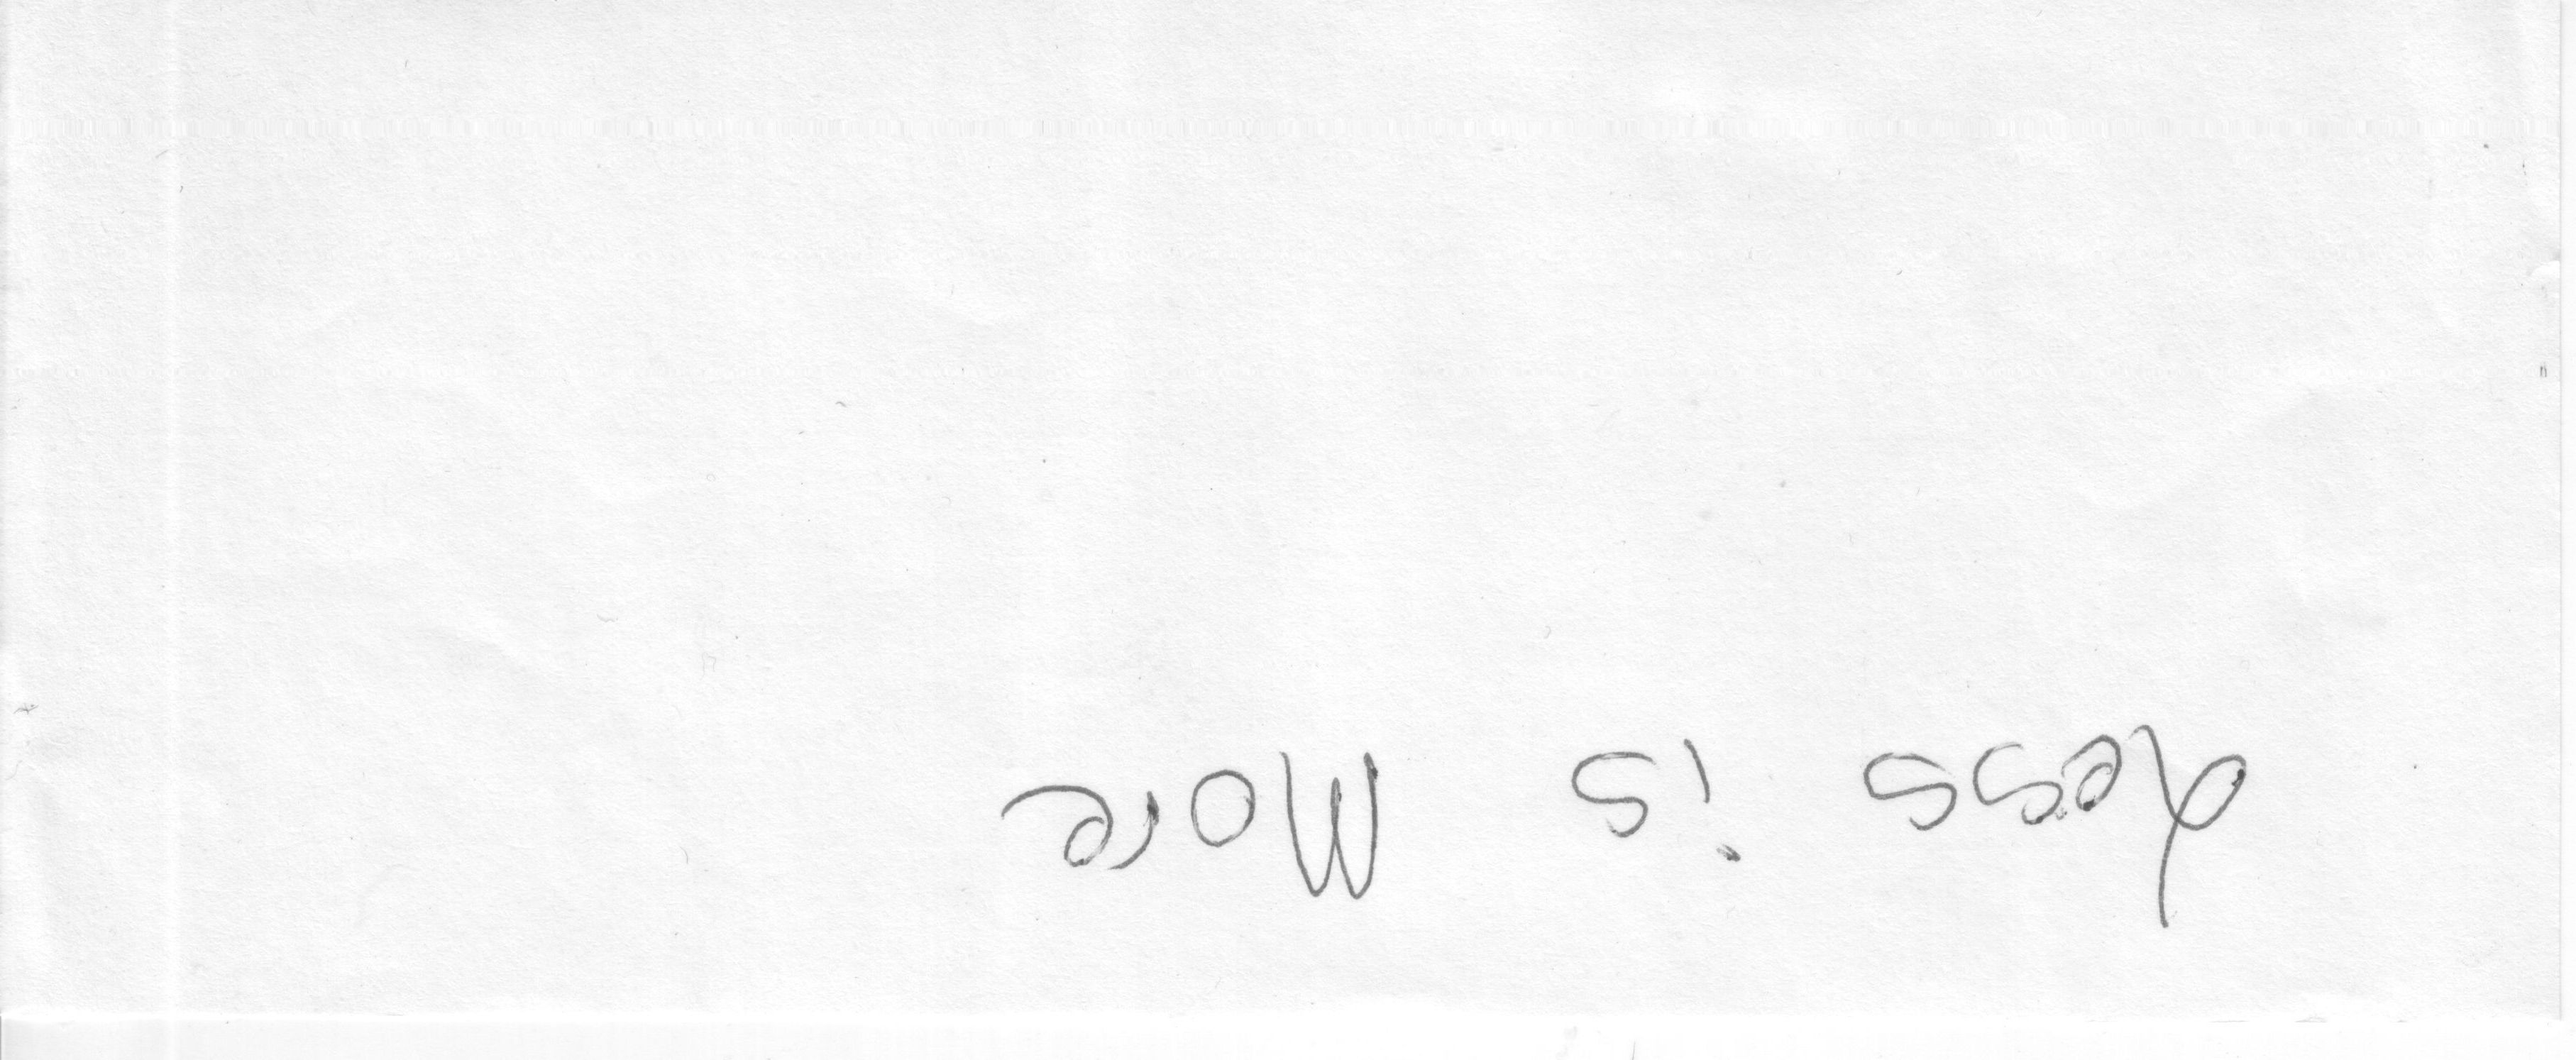
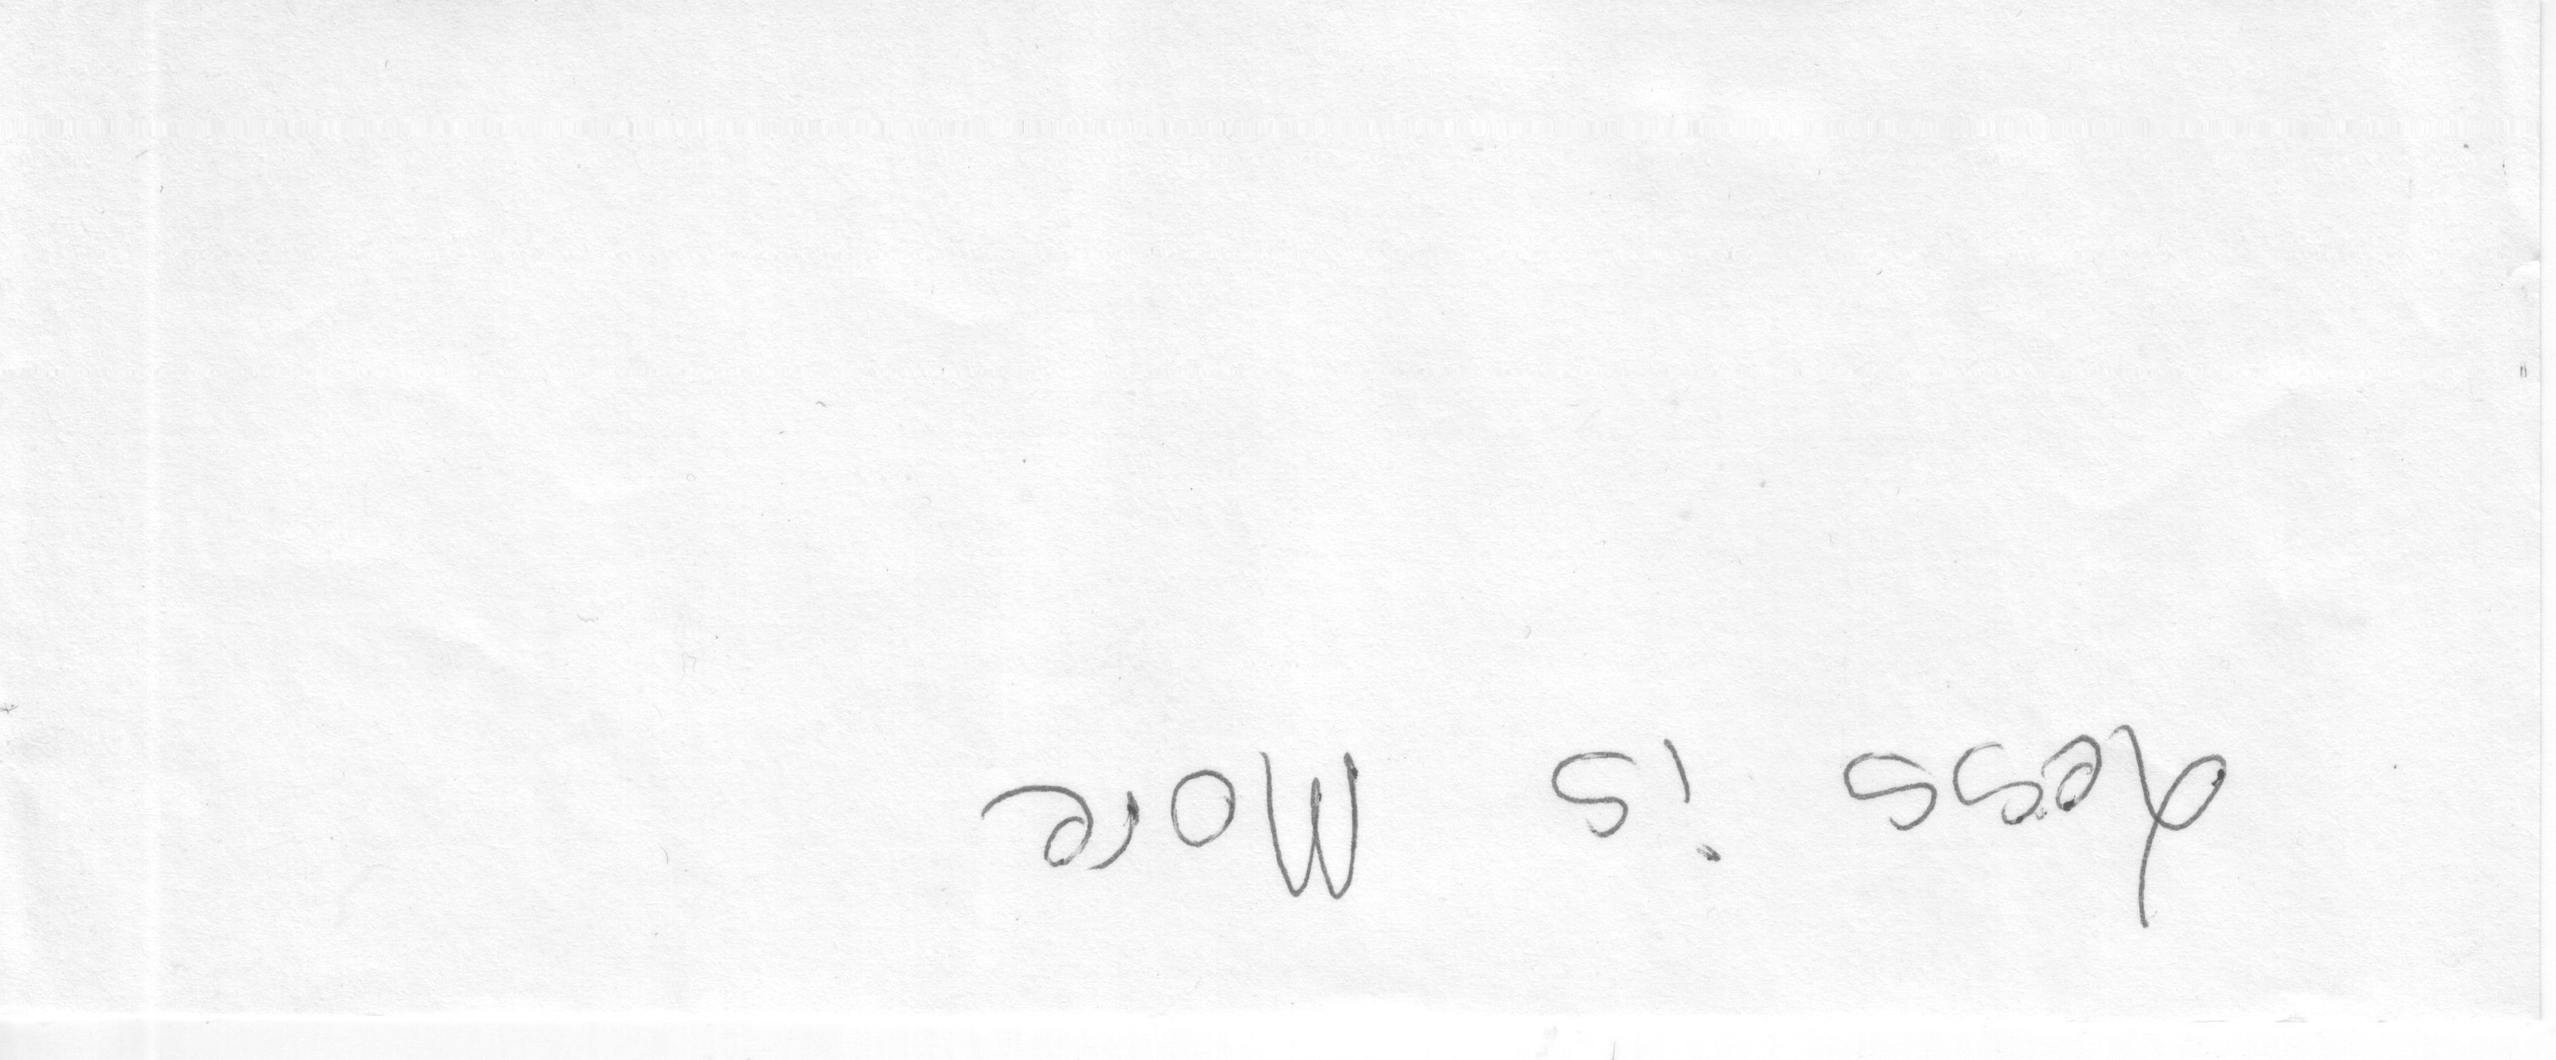
Levelling 86% of levellable wisdom.
Run Hough transform and lower the threshold until 50 lines
are found, then take the average of the angles of those lines.

Threshold lowering could be faster (binary search) but it doesn't seem
to matter.

Next: what's different about the remaining 15%?

diff --git a/src/Wisdom.cpp b/src/Wisdom.cpp
@@ -7,6 +7,7 @@
 
 #define INK_THRESHOLD 100
 
+// Constructor. Provide path to wisdom image.
 Wisdom::Wisdom(std::string thefilepath)
 {
     filepath = thefilepath;
@@ -16,11 +17,13 @@ Wisdom::~Wisdom()
 {
 }
 
+// Return the path to the wisdom image.
 std::string Wisdom::getFilepath()
 {
     return filepath;
 }
 
+// Load and return the loaded wisdom image (greyscale).
 cv::Mat * Wisdom::getOriginal()
 {
     // Cache the image once loaded.
@@ -32,6 +35,7 @@ cv::Mat * Wisdom::getOriginal()
     return &original;
 }
 
+// Return a 10% sized, thresholded (white on black) version of the wisdom image.
 cv::Mat * Wisdom::getPrepared()
 {
     // Cache the image once generated.
@@ -49,13 +53,66 @@ cv::Mat * Wisdom::getPrepared()
 
 }
 
-
 // Return true if this wisdom is blank (i.e. ink is below threshold)
 bool Wisdom::isBlank()
 {
     //TODO: cache result maybe
     double ink = cv::countNonZero(*getPrepared());
     return (ink < INK_THRESHOLD);
+}
+
+int Wisdom::angle()
+{
+    int angle = 0;
+    int MUL = 5;
+    int RHO = 1; // resolution in pixels
+    float THETA = 3.142 / 180 ; //resolution in radians
+    int THRESHOLD = 150;
+    int MIN_LINES = 45;
+
+    houghLines = getPrepared()->clone();
+    
+    std::vector<cv::Vec2f> lines;
+    // keep reducing the threshold and running Hough until we get at least
+    // 50 lines back, then calculate the most common angle by
+    // splitting up angles into buckets and taking the largest bucket
+    for(int threshold = THRESHOLD; threshold >= 0; threshold--){
+        cv::HoughLines(houghLines, lines, RHO, THETA, threshold);
+        int nLines = lines.size();
+        if(nLines > MIN_LINES){
+            // initialise buckets
+            const int BUCKETSIZE_D=5;
+            const float BUCKETSIZE_R = BUCKETSIZE_D* 3.142/180;
+            const int N_BUCKETS = floor(180 / BUCKETSIZE_D);
+            int bucket[N_BUCKETS];
+
+            for(int i=0; i<N_BUCKETS; i++){
+                bucket[i] = 0;
+            }
+
+            // count lines in each bucket
+            for (int i=0; i< nLines; i++){
+                float angle = lines[i][1];
+                int bucket_index = floor(angle / BUCKETSIZE_R);
+                bucket[(bucket_index % N_BUCKETS)]++; //take care of wrapping around 360 degrees
+            }
+
+            // get the best bucket
+            int best_bucket = 0;
+            for(int i=0; i<N_BUCKETS; i++){
+                if(bucket[i] > bucket[best_bucket]){
+                    best_bucket = i;
+                }
+            }
+
+            // calculate angle from the best bucket
+            float theta = (best_bucket) * BUCKETSIZE_R;
+            angle = (int)(90 - (theta * 180/3.142));
+
+            break;
+        }
+    }
+    return angle;
 }
 
 cv::Mat * Wisdom::getHoughLines()
@@ -67,8 +124,6 @@ cv::Mat * Wisdom::getHoughLines()
         int RHO = 1; // resolution in pixels
         float THETA = 3.142 / 180 ; //resolution in radians
         int THRESHOLD = 150;
-        int MIN_LINE_LENGTH = 20; //discard shorter lines
-        int MAX_LINE_GAP = 80; // point at which line is considered two lines
 
         houghLines = getPrepared()->clone();
         
@@ -108,7 +163,8 @@ cv::Mat * Wisdom::getHoughLines()
                 // calculate angle from the best bucket
                 float theta = (best_bucket) * BUCKETSIZE_R;
                 float rho = 100; //dont' care, just want the angle
-                std::cout<<"theta (deg): "<<theta * 180/3.142<<"\n";
+                int angle = (int)(90 - (theta * 180/3.142));
+                std::cout<<"angle: "<<angle<<"\n";
 
                 double a = cos(theta), b = sin(theta);
                 double x0 = a*rho, y0 = b*rho;

diff --git a/test/WisdomTest.cpp b/test/WisdomTest.cpp
@@ -10,6 +10,7 @@ struct TestData{
     std::string imagePath;
     bool isBlank;
     int textAngle;
+    int lines;
 };
 
 class WisdomTest : public Test::Suite { 
@@ -17,12 +18,14 @@ class WisdomTest : public Test::Suite {
         WisdomTest(){
             loadTestData();
             TEST_ADD (WisdomTest::detect_blanks); 
+            TEST_ADD (WisdomTest::levelling); 
         } 
     
     private:
         std::vector<TestData> m_testData;
         void loadTestData();
         void detect_blanks();
+        void levelling();
 }; 
 
 void WisdomTest::loadTestData()
@@ -39,11 +42,12 @@ void WisdomTest::loadTestData()
             boost::trim(item);
             elements.push_back(item);
         }
-        assert(elements.size() == 3);
+        assert(elements.size() == 4);
 
         TestData data = {elements[0],
                          elements[1] == "true",
-                         std::stoi(elements[2])};
+                         std::stoi(elements[2]),
+                         std::stoi(elements[3])};
         m_testData.push_back(data);
     }
 }
@@ -64,6 +68,45 @@ void WisdomTest::detect_blanks()
     std::ostringstream result;
     result << correct << "/" << m_testData.size() << " blanks detected correctly";
     TEST_ASSERT_MSG(correct == m_testData.size(), result.str().c_str());
+}
+
+void WisdomTest::levelling()
+{
+    int correct = 0;
+    int qualifying = 0;
+    for(TestData data : m_testData)
+    {
+        if(!data.isBlank && data.lines>0)
+        {
+            qualifying++;
+            Wisdom wisdom(data.imagePath);
+            int angle = wisdom.angle() % 180;
+            int expected = data.textAngle % 180;
+            std::cout<<data.imagePath;
+            std::cout<<"\texpected="<<expected<<" \tdetected="<< angle;
+            int difference = abs(angle - expected) % 180;
+            if(difference > 90)
+            {
+                difference = 180 - difference;
+            }
+            std::cout<<"\tdifference=" << difference;
+            if(difference <= 5)
+            {
+                std::cout<<"\n";
+                correct++;
+            }
+            else
+            {
+                std::cout<<"\tFAIL\n";
+            }
+            //TEST_ASSERT_MSG(difference < 5, data.imagePath.c_str());
+        }
+    }
+    std::ostringstream result;
+    result << correct << "/" << qualifying << " angles detected correctly (" << (float)correct* 100 /qualifying << "%)\n" ;
+    TEST_ASSERT_MSG(correct == qualifying, result.str().c_str());
+
+
 }
 
 int main ( ) 

diff --git a/src/Wisdom.h b/src/Wisdom.h
@@ -28,6 +28,9 @@ class Wisdom
         // Return true if this wisdom does not contain enough ink for analysis.
         bool isBlank();
 
+        // Return the angle of the text (0 = already level)
+        int angle();
+
         cv::Mat * getHoughLines();
     protected:
         std::string filepath;
